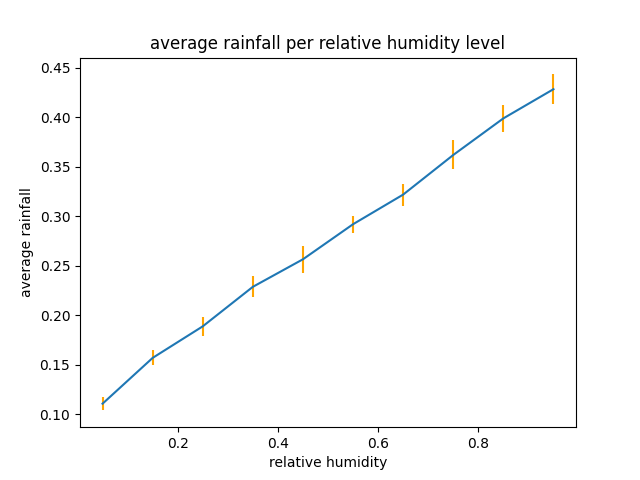
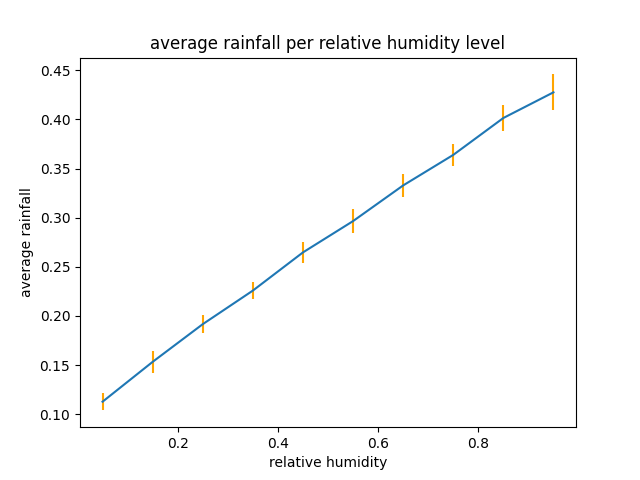
plots and data collection for all outputs. Edits to validation script

diff --git a/wind_and_dropssplitting.py b/wind_and_dropssplitting.py
@@ -203,6 +203,15 @@ def animate_CA(initial_grid, wind, steps, interval, fall_heigth,probablility_new
     plt.show()
     return averages, raind_count_list,total_drops_list,max_drop_size_list
 
+def plot_humidities(humidities, y, y_std,axis_name):
+    """plot the outcomes of the simulation against the humidities"""
+    plt.figure()
+    plt.errorbar(humidities, y, yerr=y_std, ecolor='orange')
+    plt.xlabel('relative humidity')
+    plt.ylabel(f'average {axis_name}')
+    plt.title(f'average {axis_name} per relative humidity level')
+    plt.savefig(f'figures/{axis_name}_humidity')
+
 """run experiments and collect data"""
 
 def run_simulation(initial_grid, wind, steps, fall_heigth,probablility_new_drop,probability_split_drop):
@@ -231,15 +240,8 @@ def run_simulation(initial_grid, wind, steps, fall_heigth,probablility_new_drop,
     return averages, raind_count_list,total_drops_list,max_drop_size_list
 
 
-def collect_data(averages, rain_count_list, total_drops_list, max_drop_size_list):
-    data = {
-    'Average droplet size': averages,
-    'Rain Count': rain_count_list,
-    'Total Drops': total_drops_list,
-    'Max Drop Size': max_drop_size_list
-    }
+def collect_data(data):
     df = pd.DataFrame(data)
-
     # Get current date and time
     current_datetime = datetime.datetime.now().strftime("%Y-%m-%d_%H-%M-%S")
 
@@ -249,7 +251,7 @@ def collect_data(averages, rain_count_list, total_drops_list, max_drop_size_list
     # Create filename and export
     filename = f"./exported_data/{current_datetime}_{param_str}.csv"
     os.makedirs(os.path.dirname(filename), exist_ok=True)
-    df.to_csv(filename, index_label='Time Step')
+    df.to_csv(filename, index=False)
 
 def run_experiment(height,width,humidity,wind_direction,steps,fall_heigth,probablility_new_drop,probability_split_drop):
     """run a few simulations and take the averages"""
@@ -258,19 +260,27 @@ def run_experiment(height,width,humidity,wind_direction,steps,fall_heigth,probab
 
     rain_mean_list = []
     size_mean_list = []
+    total_mean_list = []
+    max_drop_mean_list = []
 
     n = 20
     for i in range(n):
         averages,rain_count_list,total_drops_list,max_drop_size_list = run_simulation(grid,wind,steps,fall_heigth,probablility_new_drop,probability_split_drop)
         rain_mean_list.append(np.mean(rain_count_list))
         size_mean_list.append(np.mean(averages))
+        total_mean_list.append(np.mean(total_drops_list))
+        max_drop_mean_list.append(np.mean(max_drop_size_list))
 
     rain_mean = np.mean(rain_mean_list)
     rain_std = np.std(rain_mean_list)
     size_mean = np.mean(size_mean_list)
     size_std = np.std(size_mean_list)
+    total_mean = np.mean(total_mean_list)
+    total_std = np.std(total_mean_list)
+    max_drop_mean = np.mean(max_drop_mean_list)
+    max_drop_std = np.std(max_drop_mean_list)
     
-    return rain_mean, rain_std, size_mean, size_std
+    return rain_mean, rain_std, size_mean, size_std, total_mean, total_std, max_drop_mean, max_drop_std
 
 
 """input parameters"""
@@ -290,7 +300,14 @@ wind = initialize_wind(height, width, fall_heigth, wind_direction)
 
 """animation"""
 # averages,rain_count_list,total_drops_list,max_drop_size_list = animate_CA(grid,wind,steps,interval,fall_heigth,probablility_new_drop,probability_split_drop)
-# collect_data(averages, rain_count_list, total_drops_list, max_drop_size_list)
+# data = {
+#     'Time_step': range(steps),
+#     'Average droplet size': averages,
+#     'Rain Count': rain_count_list,
+#     'Total Drops': total_drops_list,
+#     'Max Drop Size': max_drop_size_list
+#     }
+# collect_data(data)
 
 """simulate"""
 #humidity range
@@ -300,28 +317,43 @@ rain_means = []
 rain_stds = []
 size_means = []
 size_stds = []
+total_means = []
+total_stds = []
+max_drop_means = []
+max_drop_stds = []
 
 #simulate for each
 for i, humidity in enumerate(humidities):
     #updates
-    print(f'{i}/{len(humidities)}: humidity = {humidity:.2f}')
-    rain_mean, rain_std, size_mean, size_std = run_experiment(height, width, humidity, wind_direction, steps, fall_heigth, probablility_new_drop, probability_split_drop)
+    print(f'{i+1}/{len(humidities)}: humidity = {humidity:.2f}')
+    rain_mean, rain_std, size_mean, size_std, total_mean, total_std, max_drop_mean, max_drop_std = run_experiment(height, width, humidity, wind_direction, steps, fall_heigth, probablility_new_drop, probability_split_drop)
+    #add data to lists
     rain_means.append(rain_mean)
     rain_stds.append(rain_std)
     size_means.append(size_mean)
     size_stds.append(size_std)
+    total_means.append(total_mean)
+    total_stds.append(total_std)
+    max_drop_means.append(max_drop_mean)
+    max_drop_stds.append(max_drop_std)
+
+#collect and save data
+data = {
+    'Humidities': humidities,
+    'Rain_mean': rain_means,
+    'Rain_std': rain_stds,
+    'Size_mean': size_means,
+    'Size_std': size_stds,
+    'Total_drops_mean': total_means,
+    'Total_drops_std': total_stds,
+    'Max_drop_mean': max_drop_means,
+    'Max_drop_std': max_drop_stds
+    }
+collect_data(data)
 
 #plot
-plt.figure()
-plt.errorbar(humidities, rain_means, yerr=rain_stds, ecolor='orange')
-plt.xlabel('relative humidity')
-plt.ylabel('average rainfall')
-plt.title('average rainfall per relative humidity level')
-plt.savefig('figures/rainfall_humidity')
+plot_humidities(humidities, rain_means, rain_stds, 'rainfall')
+plot_humidities(humidities, size_means, size_stds, 'drop size')
+plot_humidities(humidities, total_means, total_stds, 'total drops')
+plot_humidities(humidities, max_drop_means, max_drop_stds, 'max drop size')
 
-plt.figure()
-plt.errorbar(humidities, size_means, yerr=rain_stds, ecolor='orange')
-plt.xlabel('relative humidity')
-plt.ylabel('average drop size')
-plt.title('average drop size per relative humidity level')
-plt.savefig('figures/dropsize_humidity')
